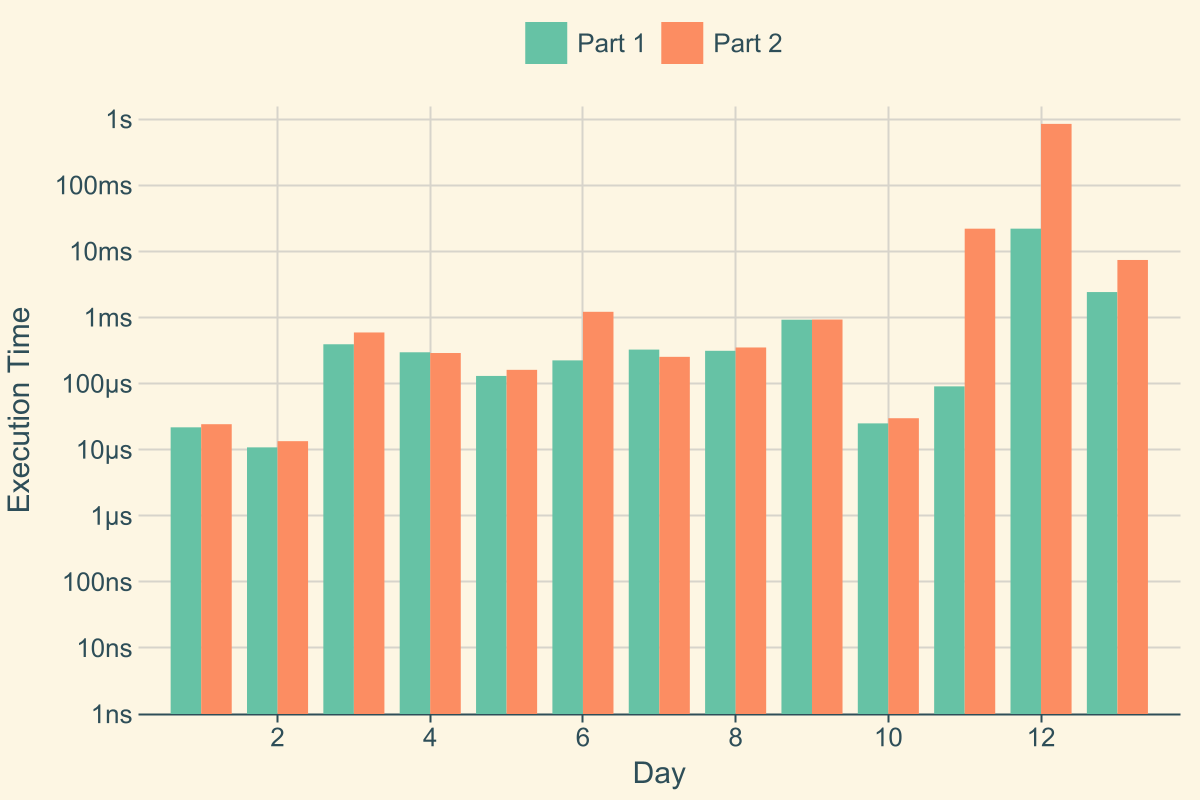
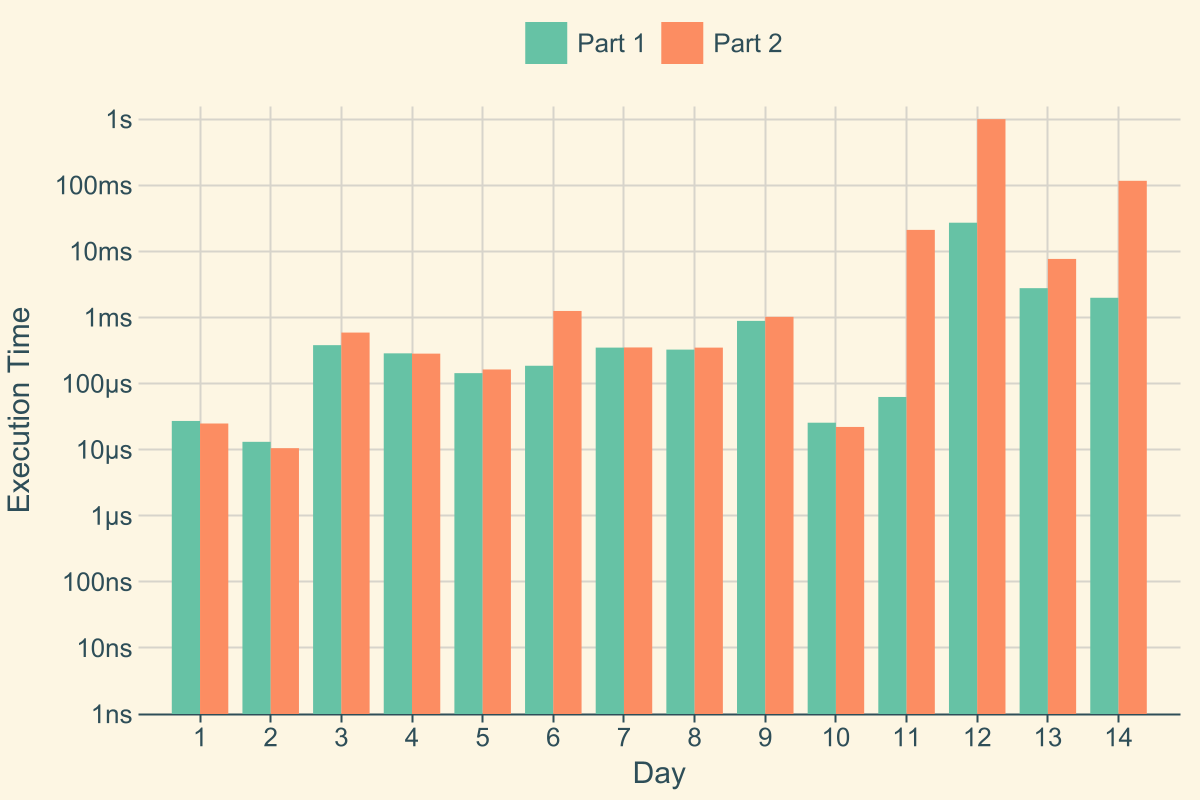
14

Changed region(s): [[0.185, 0.125, 0.9558, 0.9375], [0.925, 0.9062, 0.9558, 0.9375], [0.1542, 0.5, 0.185, 0.5312]]

diff --git a/src/day14.rs b/src/day14.rs
@@ -1,0 +1,239 @@
+use std::cell::RefCell;
+use std::collections::HashMap;
+use std::fmt::{Display, Formatter};
+use std::ops;
+
+use crate::day14::Material::{Rock, Sand, Source};
+use crate::harness::{Day, Part};
+
+pub fn day14() -> Day<u32, u32> {
+    Day::new(14, Box::new(Part1 {}), Box::new(Part2 {}))
+}
+
+pub struct Part1;
+
+impl Part<u32> for Part1 {
+    fn expect_test(&self) -> u32 {
+        24
+    }
+
+    fn solve(&self, input: &Vec<String>) -> u32 {
+        let map = Map::from(input);
+        Self::simulate(&map);
+        map.count_sand()
+    }
+}
+
+impl Part1 {
+    fn simulate(map: &Map) {
+        loop {
+            let mut current = SOURCE;
+
+            loop {
+                if let Some(next) = DROP_DIRECTIONS.iter().map(|d| current + *d).find(|p| map.get(*p).is_none()) {
+                    current = next;
+
+                    if current.y > map.max.y {
+                        return;
+                    }
+                } else {
+                    map.insert_sand(current);
+                    break;
+                }
+            }
+        }
+    }
+}
+
+pub struct Part2;
+
+impl Part<u32> for Part2 {
+    fn expect_test(&self) -> u32 {
+        93
+    }
+
+    fn solve(&self, input: &Vec<String>) -> u32 {
+        let map = Map::from(input);
+        Self::simulate(&map);
+        map.count_sand()
+    }
+}
+
+impl Part2 {
+    fn simulate(map: &Map) {
+        loop {
+            let mut current = SOURCE;
+
+            loop {
+                if let Some(next) = DROP_DIRECTIONS.iter().map(|d| current + *d).find(|p| map.get(*p).is_none()) {
+                    current = next;
+
+                    if current.y > map.max.y {
+                        map.insert_sand(current);
+                        break;
+                    }
+                } else {
+                    map.insert_sand(current);
+                    if current == SOURCE {
+                        return;
+                    } else {
+                        break
+                    }
+                }
+            }
+        }
+    }
+}
+
+const DROP_DIRECTIONS: [Point; 3] = [p(0, 1), p(-1, 1), p(1, 1)];
+const SOURCE: Point = p(500, 0);
+
+#[derive(Copy, Clone, Debug, Eq, PartialEq, Hash)]
+struct Point {
+    x: i32,
+    y: i32,
+}
+
+const fn p(x: i32, y: i32) -> Point {
+    Point { x, y }
+}
+
+impl ops::Add<Point> for Point {
+    type Output = Self;
+
+    fn add(self, rhs: Point) -> Self::Output {
+        p(self.x + rhs.x, self.y + rhs.y)
+    }
+}
+
+impl ops::Sub<Point> for Point {
+    type Output = Self;
+
+    fn sub(self, rhs: Point) -> Self::Output {
+        p(self.x - rhs.x, self.y - rhs.y)
+    }
+}
+
+impl Point {
+    fn d(&self, other: Self) -> Self {
+        let d = other - *self;
+
+        p(d.x.signum(), d.y.signum())
+    }
+}
+
+#[derive(Copy, Clone, Eq, PartialEq, Debug)]
+enum Material {
+    Rock,
+    Sand,
+    Source,
+}
+
+struct Map {
+    raw: RefCell<HashMap<Point, Material>>,
+    min: Point,
+    max: Point,
+}
+
+impl Map {
+    pub fn new(raw: HashMap<Point, Material>) -> Self {
+        let (min, max) = find_extremes(&raw);
+
+        Self {
+            raw: RefCell::new(raw),
+            min,
+            max,
+        }
+    }
+
+    fn get(&self, p: Point) -> Option<Material> {
+        self.raw.borrow().get(&p).map(|m| *m)
+    }
+
+    fn insert_sand(&self, p: Point) {
+        self.raw.borrow_mut().insert(p, Sand);
+    }
+
+    fn count_sand(&self) -> u32 {
+        self.raw.borrow().iter().filter(|(_, v)| **v == Sand).count() as u32
+    }
+}
+
+fn find_extremes(raw: &HashMap<Point, Material>) -> (Point, Point) {
+    let min = p(
+        raw.iter().map(|(k, _)| k.x).min().unwrap(),
+        raw.iter().map(|(k, _)| k.y).min().unwrap(),
+    );
+    let max = p(
+        raw.iter().map(|(k, _)| k.x).max().unwrap(),
+        raw.iter().map(|(k, _)| k.y).max().unwrap(),
+    );
+    (min, max)
+}
+
+impl From<&Vec<String>> for Map {
+    fn from(value: &Vec<String>) -> Self {
+        let map_line = |line: &str| -> Vec<(Point, Material)> {
+            let points =
+                line
+                    .split(" -> ")
+                    .map(|chunk| chunk.split(","))
+                    .map(|mut arr| p(
+                        arr.next().unwrap().parse().unwrap(),
+                        arr.next().unwrap().parse().unwrap(),
+                    ))
+                    .collect::<Vec<_>>();
+
+
+            let mut current = points[0];
+            let mut result = vec![current];
+
+            for i in 1..points.len() {
+                let next = points[i];
+
+                let d = current.d(next);
+
+                while current != next {
+                    current = current + d;
+                    result.push(current);
+                }
+            }
+
+            result.into_iter().map(|p| (p, Rock)).collect()
+        };
+
+        let raw =
+            value
+                .iter()
+                .filter(|line| !line.is_empty())
+                .flat_map(|line| map_line(line).into_iter())
+                .chain(vec![(SOURCE, Source)])
+                .collect::<HashMap<_, _>>();
+
+        Map::new(raw)
+    }
+}
+
+impl Display for Map {
+    fn fmt(&self, f: &mut Formatter<'_>) -> std::fmt::Result {
+        let mut builder = "".to_string();
+
+        let (min, max) = find_extremes(&self.raw.borrow());
+
+        for y in min.y - 2..max.y + 2 {
+            for x in min.x - 2..max.x + 2 {
+                let char = match self.get(p(x, y)) {
+                    None => ' ',
+                    Some(Rock) => '#',
+                    Some(Sand) => 'o',
+                    Some(Source) => '+',
+                };
+
+                builder.push(char)
+            }
+            builder.push('\n')
+        }
+
+        write!(f, "{}", builder)
+    }
+}

diff --git a/src/main.rs b/src/main.rs
@@ -21,7 +21,7 @@ use crate::day10::day10;
 use crate::day11::day11;
 use crate::day12::day12;
 use crate::day13::day13;
-// use crate::day14::day14;
+use crate::day14::day14;
 // use crate::day15::day15;
 // use crate::day16::day16;
 // use crate::day17::day17;
@@ -49,7 +49,7 @@ mod day10;
 mod day11;
 mod day12;
 mod day13;
-// mod day14;
+mod day14;
 // mod day15;
 // mod day16;
 // mod day17;
@@ -77,7 +77,7 @@ fn main() {
         day11().f(),
         day12().f(),
         day13().f(),
-        // day14().f(),
+        day14().f(),
         // day15().f(),
         // day16().f(),
         // day17().f(),
